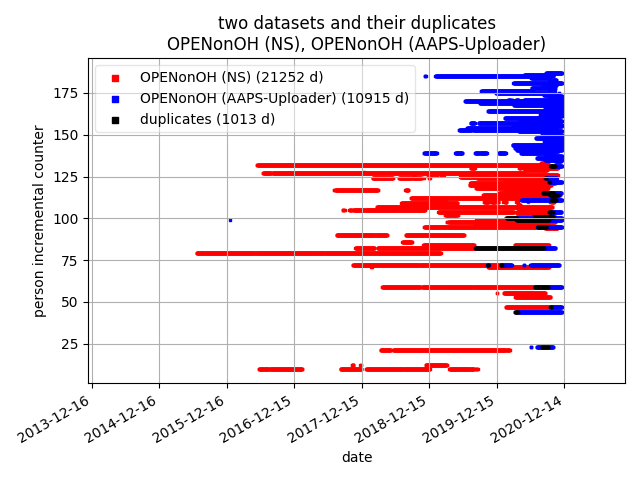
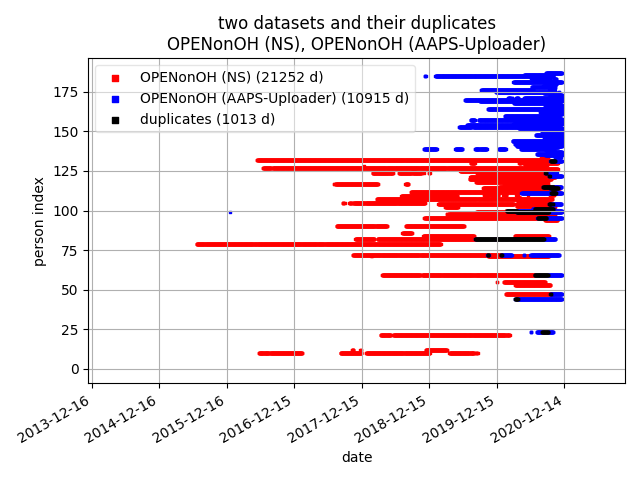
feat(pairwise_plot.py,png): common y-axis range (person_index)

diff --git a/pairwise_plot.py b/pairwise_plot.py
@@ -45,7 +45,9 @@ class pairwise_plot():
         # common min and max dates (on the x-axis) across all plots
         self.min_date = self.df["date"].min() 
         self.max_date = self.df["date"].max()
-        
+        self.min_person_id = self.df["person_id"].min() 
+        self.max_person_id = self.df["person_id"].max()
+
     def plot(self, pair_i):
         """
         plot the three data frames: the first, the duplicates and the second dataset.
@@ -66,6 +68,8 @@ class pairwise_plot():
 
         # x-axis date formatting
         plt.xlim(self.min_date - pd.Timedelta(days = 100), self.max_date + pd.Timedelta(days = 100))  # 100 days as a margin for plotting
+        step_ = 0.05*(self.max_person_id - self.min_person_id)
+        plt.ylim(self.min_person_id - step_, self.max_person_id + step_)
         
         plt.gca().xaxis.set_major_formatter(mdates.DateFormatter('%Y-%m-%d'))
         plt.gca().xaxis.set_major_locator(mdates.DayLocator(interval=365))
@@ -76,7 +80,7 @@ class pairwise_plot():
         label_1 = self.input2["individual"][dataset_indices[1]][2]
         plt.title(f"""{self.plot_config["title_prefix"]}\n{label_0}, {label_1}""")
         plt.xlabel("date")
-        plt.ylabel("person incremental counter")
+        plt.ylabel("person index")
         plt.setp( plt.gca().get_xticklabels(),  rotation            = 30,
                                             horizontalalignment = 'right'
                                             )
@@ -120,7 +124,7 @@ class pairwise_plot():
         
     def loop(self):
         """
-        produces several plots, where one plot contains ds1, ds2 and their duplicates. They share a common x-axis range.
+        produces several plots, where one plot contains ds1, ds2 and their duplicates. They all share a common x-axis range.
         """
         for i, one_plot_config in enumerate(self.output):
             if "data" not in one_plot_config or "img_path" not in one_plot_config: continue
